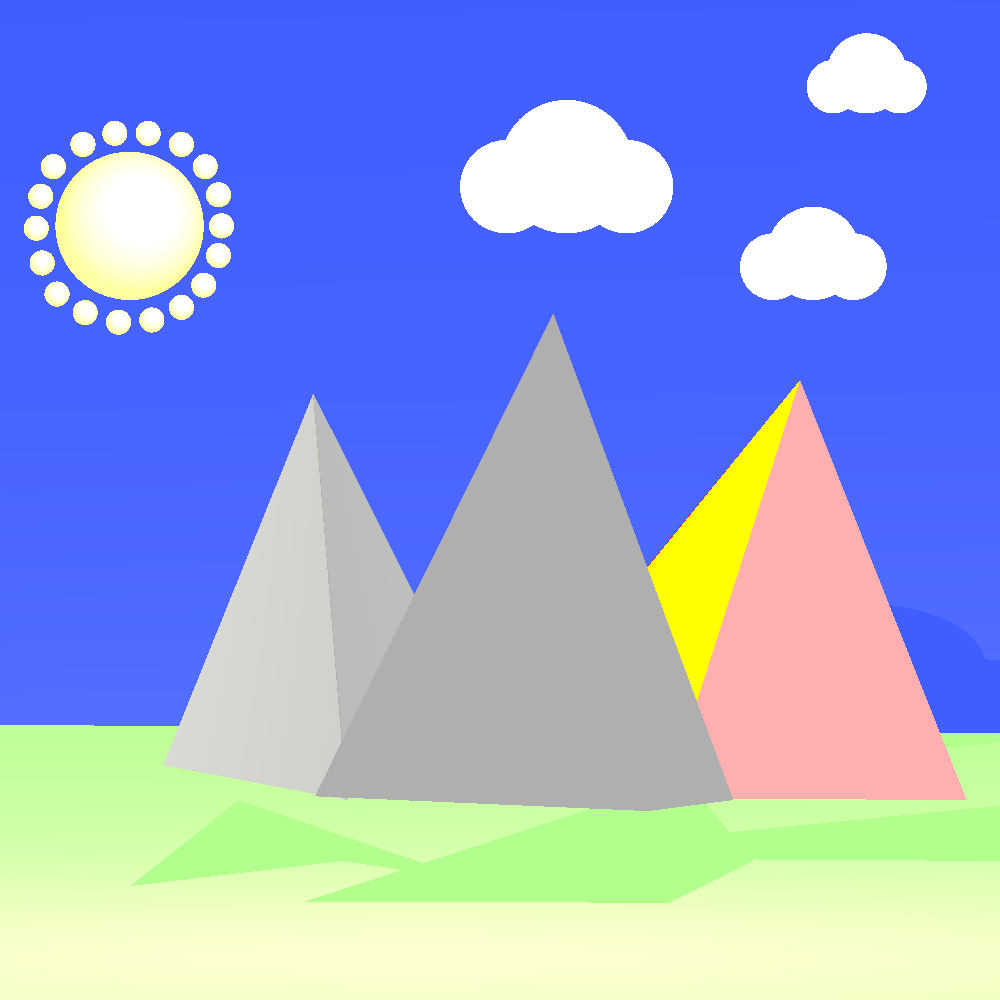
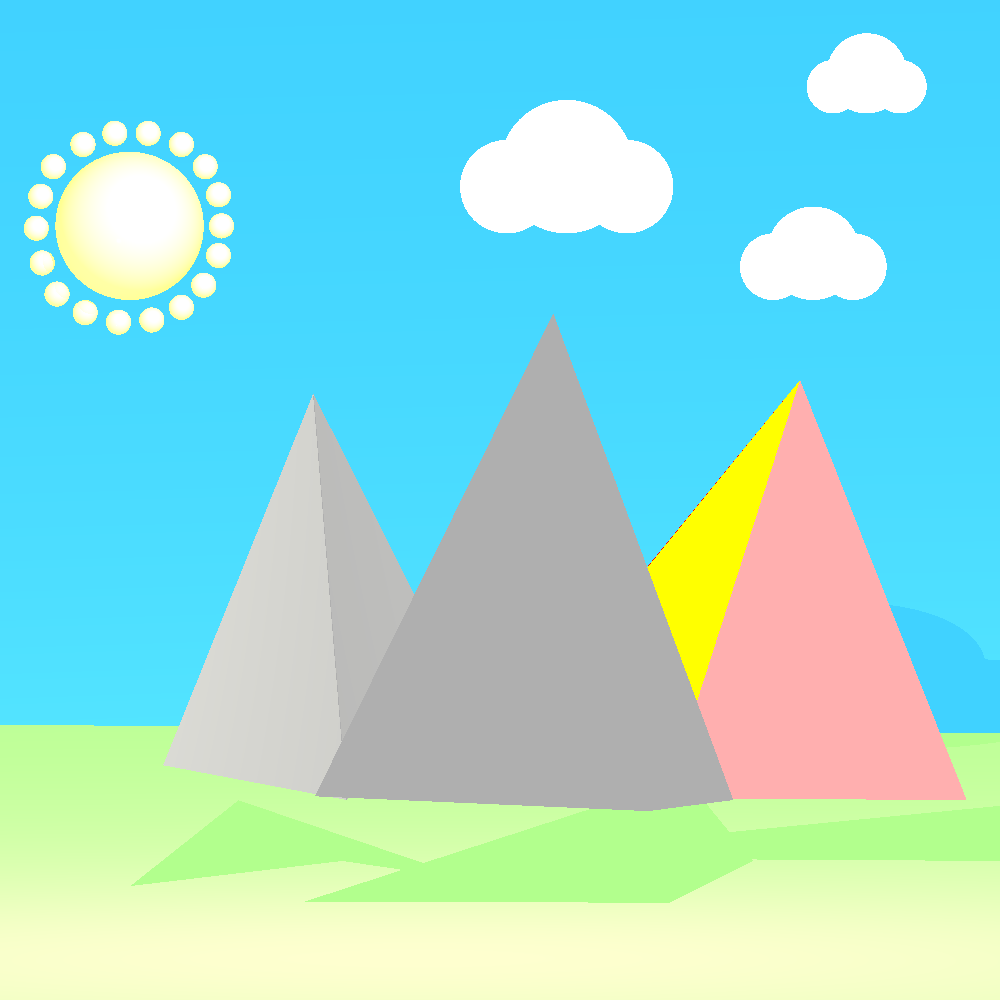
there is trees guys

diff --git a/unitTests/renderer/minip1Test.java b/unitTests/renderer/minip1Test.java
@@ -21,11 +21,22 @@ public class minip1Test {
         Camera camera = new Camera(new Point(0, 0, 1000), new Vector(0, 0, -1), new Vector(0, 1, 0));
         camera.setVPSize(150, 150).setVPDistance(1000);
 
+        //back
+        scene.getGeometries().add(
+
+                new Plane(new Point(5, -80, -300), new Vector(5, -240, -20))
+                        .setEmission(new Color(185, 600, 1000).scale(0.35))//
+                        .setMaterial(new Material().setKd(0.5).setKs(0.5).setShininess(100))
+        );
+
+        //gross
         scene.getGeometries().add(
                 new Plane(new Point(0, -55, -750), new Vector(0, 0.5, 0))
                         .setEmission(new Color(178,255,141))
                         .setMaterial(new Material().setKd(0.5).setKs(0.5).setShininess(100))
         );
+
+
 
         //sun
         scene.getGeometries().add(
@@ -68,12 +79,7 @@ public class minip1Test {
                 new Sphere(new Point(-61.8,32,100),1.7d).setEmission(new Color(yellow)).
                         setMaterial(new Material().setKd(0.9).setKs(0.3).setShininess(1000).setKt(0.6))
         );
-        scene.getGeometries().add(
 
-                new Plane(new Point(5, -80, -300), new Vector(5, -240, -20))
-                        .setEmission(new Color(185, 266, 1000).scale(0.35))//
-                        .setMaterial(new Material().setKd(0.5).setKs(0.5).setShininess(100))
-        );
 
         //snow
         /*scene.getGeometries().add(
